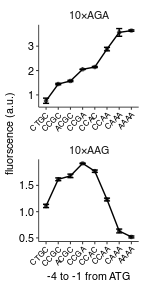
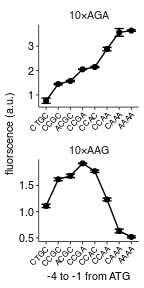
Change point and show n for 10xAAG and no insert

diff --git a/scripts/initiation_pgk1_10xaag_flow.md b/scripts/initiation_pgk1_10xaag_flow.md
@@ -1,4 +1,4 @@
-Flow analysis of PGK1 constructs with 10xAAG / 10xAGA inserts and varying Kozak
+Fluorescence of PGK1 WT reporters with 10xAAG / 10xAGA inserts and varying 5'UTR mutations
 ================
 rasi
 14 December, 2018
@@ -132,13 +132,14 @@ avg_data  <- by_file %>%
          mean_ratio = mean(yfp_rfp_ratio), 
          se_yfp = std.error(yfp), 
          se_rfp = std.error(rfp),
-         se_ratio = std.error(yfp_rfp_ratio)) %>% 
+         se_ratio = std.error(yfp_rfp_ratio),
+         n = n()) %>% 
   slice(1) %>% 
   ungroup() %>% 
   print()
 ```
 
-    ## # A tibble: 22 x 16
+    ## # A tibble: 22 x 17
     ##    plate well      yfp     rfp strain replicate initiationmutat…
     ##    <int> <chr>   <dbl>   <dbl> <chr>      <int> <chr>           
     ##  1     1 B2    -1.98e2 -4.58e0 by4741         1 CAAA            
@@ -151,9 +152,9 @@ avg_data  <- by_file %>%
     ##  8     1 B10    4.12e3  2.07e4 schp6…         1 CCAC            
     ##  9     1 B11    4.54e3  2.15e4 schp6…         1 CCGA            
     ## 10     1 C2     2.60e3  2.09e4 schp6…         1 CTGC            
-    ## # ... with 12 more rows, and 9 more variables: codonmutation <chr>,
+    ## # ... with 12 more rows, and 10 more variables: codonmutation <chr>,
     ## #   gene <chr>, mean_yfp <dbl>, mean_rfp <dbl>, yfp_rfp_ratio <dbl>,
-    ## #   mean_ratio <dbl>, se_yfp <dbl>, se_rfp <dbl>, se_ratio <dbl>
+    ## #   mean_ratio <dbl>, se_yfp <dbl>, se_rfp <dbl>, se_ratio <dbl>, n <int>
 
 ``` r
 normalization <- avg_data %>% 
@@ -179,9 +180,9 @@ plot_data %>%
   ggplot(aes(x = initiationmutation, y = mean_ratio, 
              ymin = mean_ratio - se_ratio, ymax = mean_ratio + se_ratio,
              group = codonmutation)) +
-  geom_point(size = 1, height = 0, width = 0.1, alpha = 0.5) +
+  geom_point(size = 1.5) +
   geom_line() +
-  geom_errorbar(width = 0.5) +
+  geom_errorbar(width = 0.75) +
   facet_wrap(~fct_rev(codonmutation), ncol = 1, scales = "free") + 
   labs(y = 'fluorscence (a.u.)',
        x = '-4 to -1 from ATG') +
@@ -197,25 +198,25 @@ ggsave('../figures/initiation_pgk1_aag_flow.pdf')
 
 plot_data %>% 
   arrange(codonmutation, initiationmutation) %>% 
-  select(codonmutation, initiationmutation, mean_ratio, se_ratio) %>% 
+  select(codonmutation, initiationmutation, mean_ratio, se_ratio, n) %>% 
   knitr::kable()
 ```
 
-| codonmutation | initiationmutation |  mean\_ratio|  se\_ratio|
-|:--------------|:-------------------|------------:|----------:|
-| 10×AAG        | CTGC               |    1.1088094|  0.0321125|
-| 10×AAG        | CCGC               |    1.6162395|  0.0265549|
-| 10×AAG        | ACGC               |    1.6814330|  0.0333337|
-| 10×AAG        | CCGA               |    1.9196658|  0.0060049|
-| 10×AAG        | CCAC               |    1.7708731|  0.0221404|
-| 10×AAG        | CCAA               |    1.2312707|  0.0263910|
-| 10×AAG        | CAAA               |    0.6317991|  0.0366098|
-| 10×AAG        | AAAA               |    0.5185551|  0.0179857|
-| 10×AGA        | CTGC               |    0.7608012|  0.1073595|
-| 10×AGA        | CCGC               |    1.4457960|  0.0282360|
-| 10×AGA        | ACGC               |    1.5724237|  0.0267922|
-| 10×AGA        | CCGA               |    2.0496543|  0.0073044|
-| 10×AGA        | CCAC               |    2.1441320|  0.0224558|
-| 10×AGA        | CCAA               |    2.8808058|  0.0718876|
-| 10×AGA        | CAAA               |    3.5637858|  0.1581838|
-| 10×AGA        | AAAA               |    3.6380288|  0.0287763|
+| codonmutation | initiationmutation |  mean\_ratio|  se\_ratio|    n|
+|:--------------|:-------------------|------------:|----------:|----:|
+| 10×AAG        | CTGC               |    1.1088094|  0.0321125|    3|
+| 10×AAG        | CCGC               |    1.6162395|  0.0265549|    3|
+| 10×AAG        | ACGC               |    1.6814330|  0.0333337|    3|
+| 10×AAG        | CCGA               |    1.9196658|  0.0060049|    3|
+| 10×AAG        | CCAC               |    1.7708731|  0.0221404|    3|
+| 10×AAG        | CCAA               |    1.2312707|  0.0263910|    3|
+| 10×AAG        | CAAA               |    0.6317991|  0.0366098|    3|
+| 10×AAG        | AAAA               |    0.5185551|  0.0179857|    3|
+| 10×AGA        | CTGC               |    0.7608012|  0.1073595|    3|
+| 10×AGA        | CCGC               |    1.4457960|  0.0282360|    3|
+| 10×AGA        | ACGC               |    1.5724237|  0.0267922|    3|
+| 10×AGA        | CCGA               |    2.0496543|  0.0073044|    3|
+| 10×AGA        | CCAC               |    2.1441320|  0.0224558|    3|
+| 10×AGA        | CCAA               |    2.8808058|  0.0718876|    3|
+| 10×AGA        | CAAA               |    3.5637858|  0.1581838|    3|
+| 10×AGA        | AAAA               |    3.6380288|  0.0287763|    3|

diff --git a/scripts/initiation_pgk1_no_insert_flow.md b/scripts/initiation_pgk1_no_insert_flow.md
@@ -131,7 +131,8 @@ avg_data  <- by_file %>%
          mean_ratio = mean(yfp_rfp_ratio), 
          se_yfp = std.error(yfp), 
          se_rfp = std.error(rfp),
-         se_ratio = std.error(yfp_rfp_ratio)) %>% 
+         se_ratio = std.error(yfp_rfp_ratio),
+         n = n()) %>% 
   slice(1) %>% 
   ungroup()
 
@@ -174,17 +175,17 @@ ggsave("../figures/initiation_pgk1_no_insert_flow.pdf")
 
 plot_data %>% 
   arrange(initiationmutation) %>% 
-  select(initiationmutation, mean_ratio, se_ratio) %>% 
+  select(initiationmutation, mean_ratio, se_ratio, n) %>% 
   knitr::kable()
 ```
 
-| initiationmutation |  mean\_ratio|  se\_ratio|
-|:-------------------|------------:|----------:|
-| CTGC               |     3.276861|  0.0352938|
-| CCGC               |     5.470610|  0.1554903|
-| ACGC               |     5.845917|  0.0792391|
-| CCGA               |     7.361878|  0.0673016|
-| CCAC               |     8.073923|  0.0963063|
-| CCAA               |    11.204147|  0.1990254|
-| CAAA               |    15.013378|  0.2239361|
-| AAAA               |    15.522777|  0.2430235|
+| initiationmutation |  mean\_ratio|  se\_ratio|    n|
+|:-------------------|------------:|----------:|----:|
+| CTGC               |     3.276861|  0.0352938|    6|
+| CCGC               |     5.470610|  0.1554903|    6|
+| ACGC               |     5.845917|  0.0792391|    6|
+| CCGA               |     7.361878|  0.0673016|    6|
+| CCAC               |     8.073923|  0.0963063|    6|
+| CCAA               |    11.204147|  0.1990254|    6|
+| CAAA               |    15.013378|  0.2239361|    6|
+| AAAA               |    15.522777|  0.2430235|    6|
